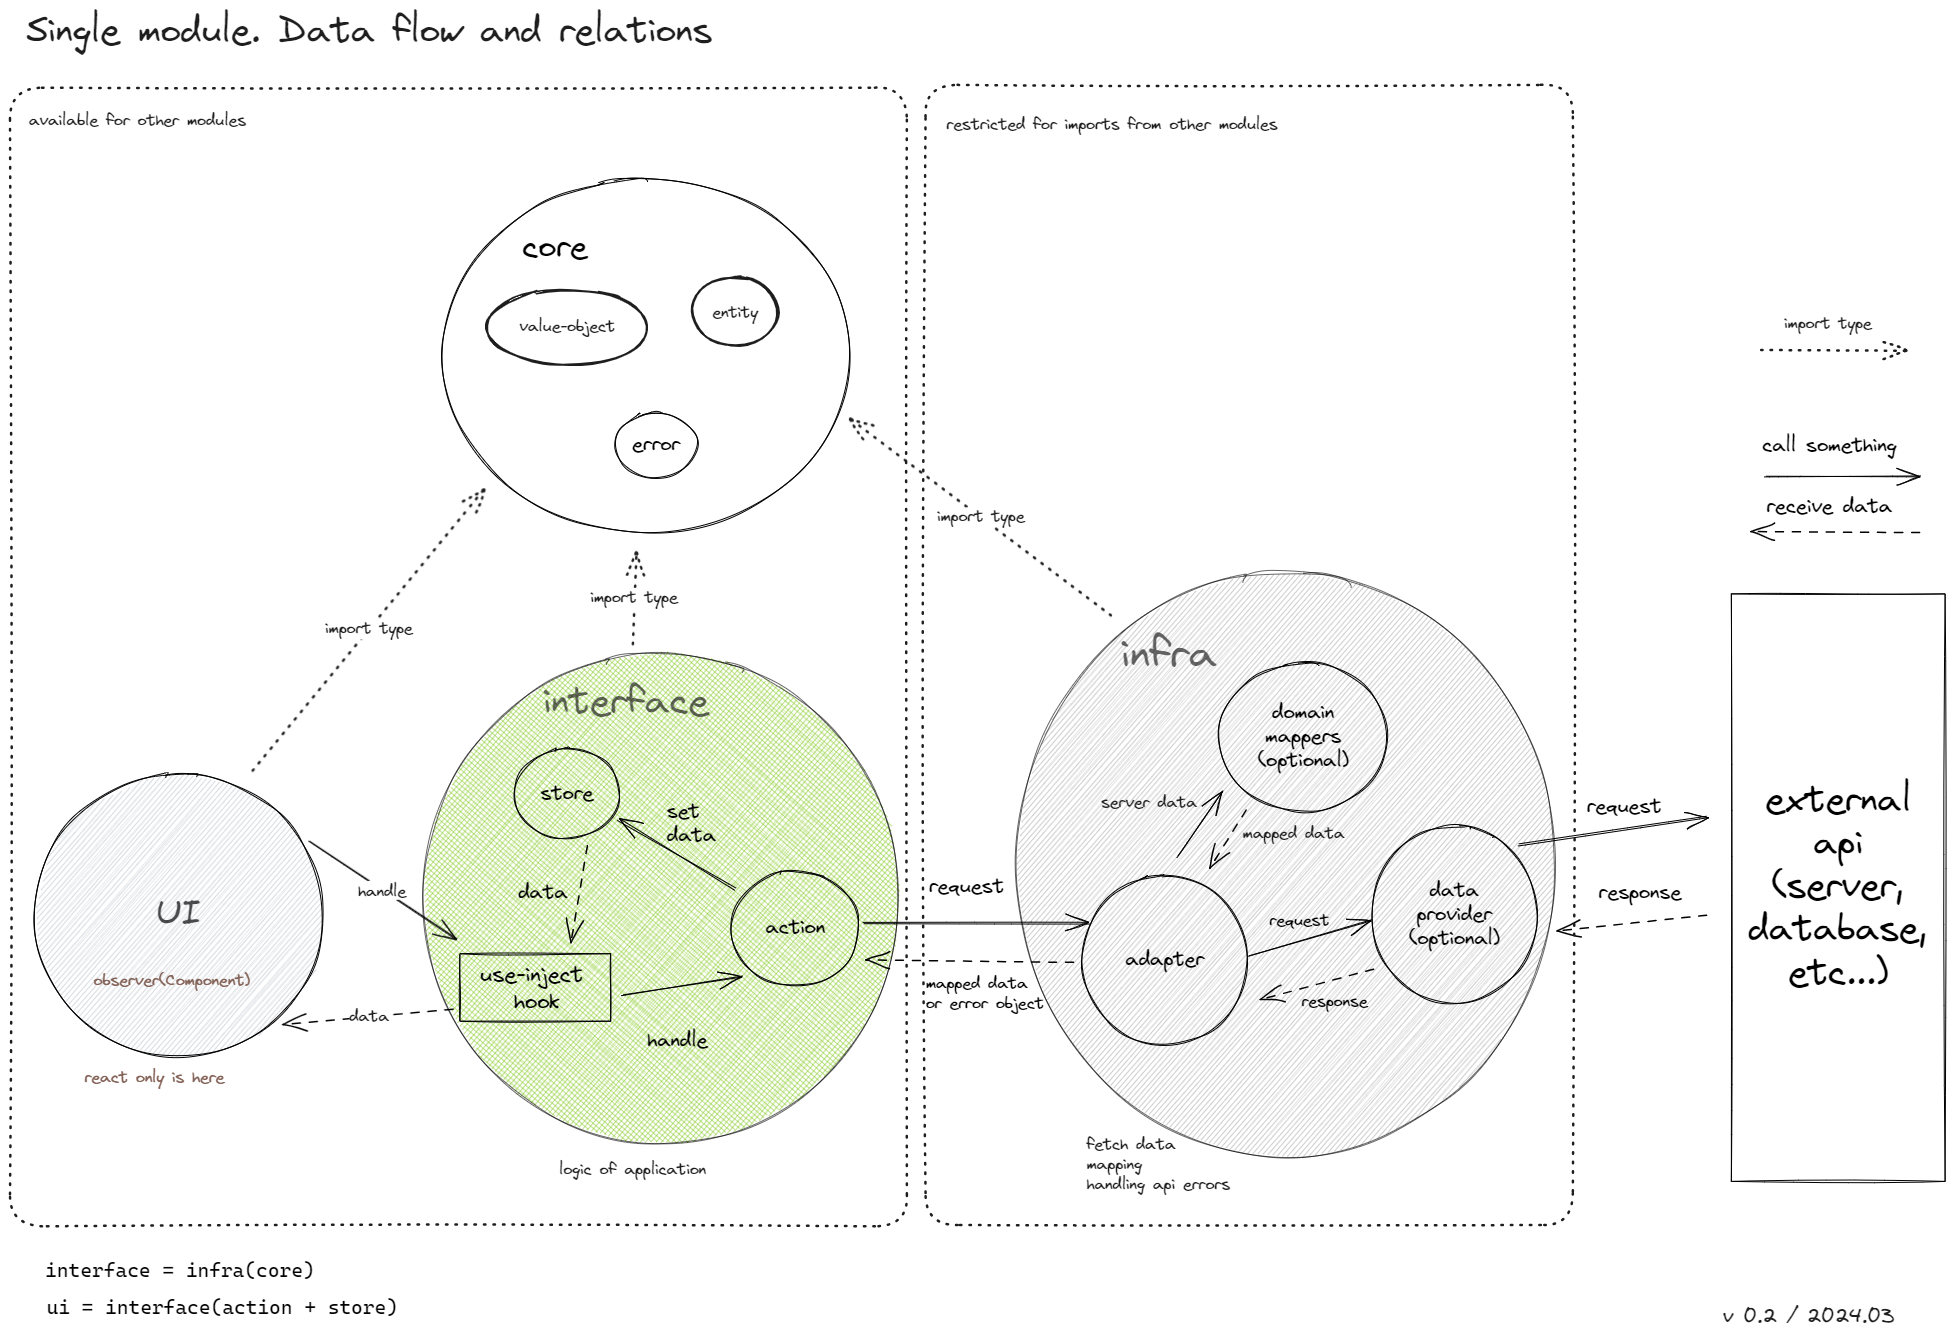
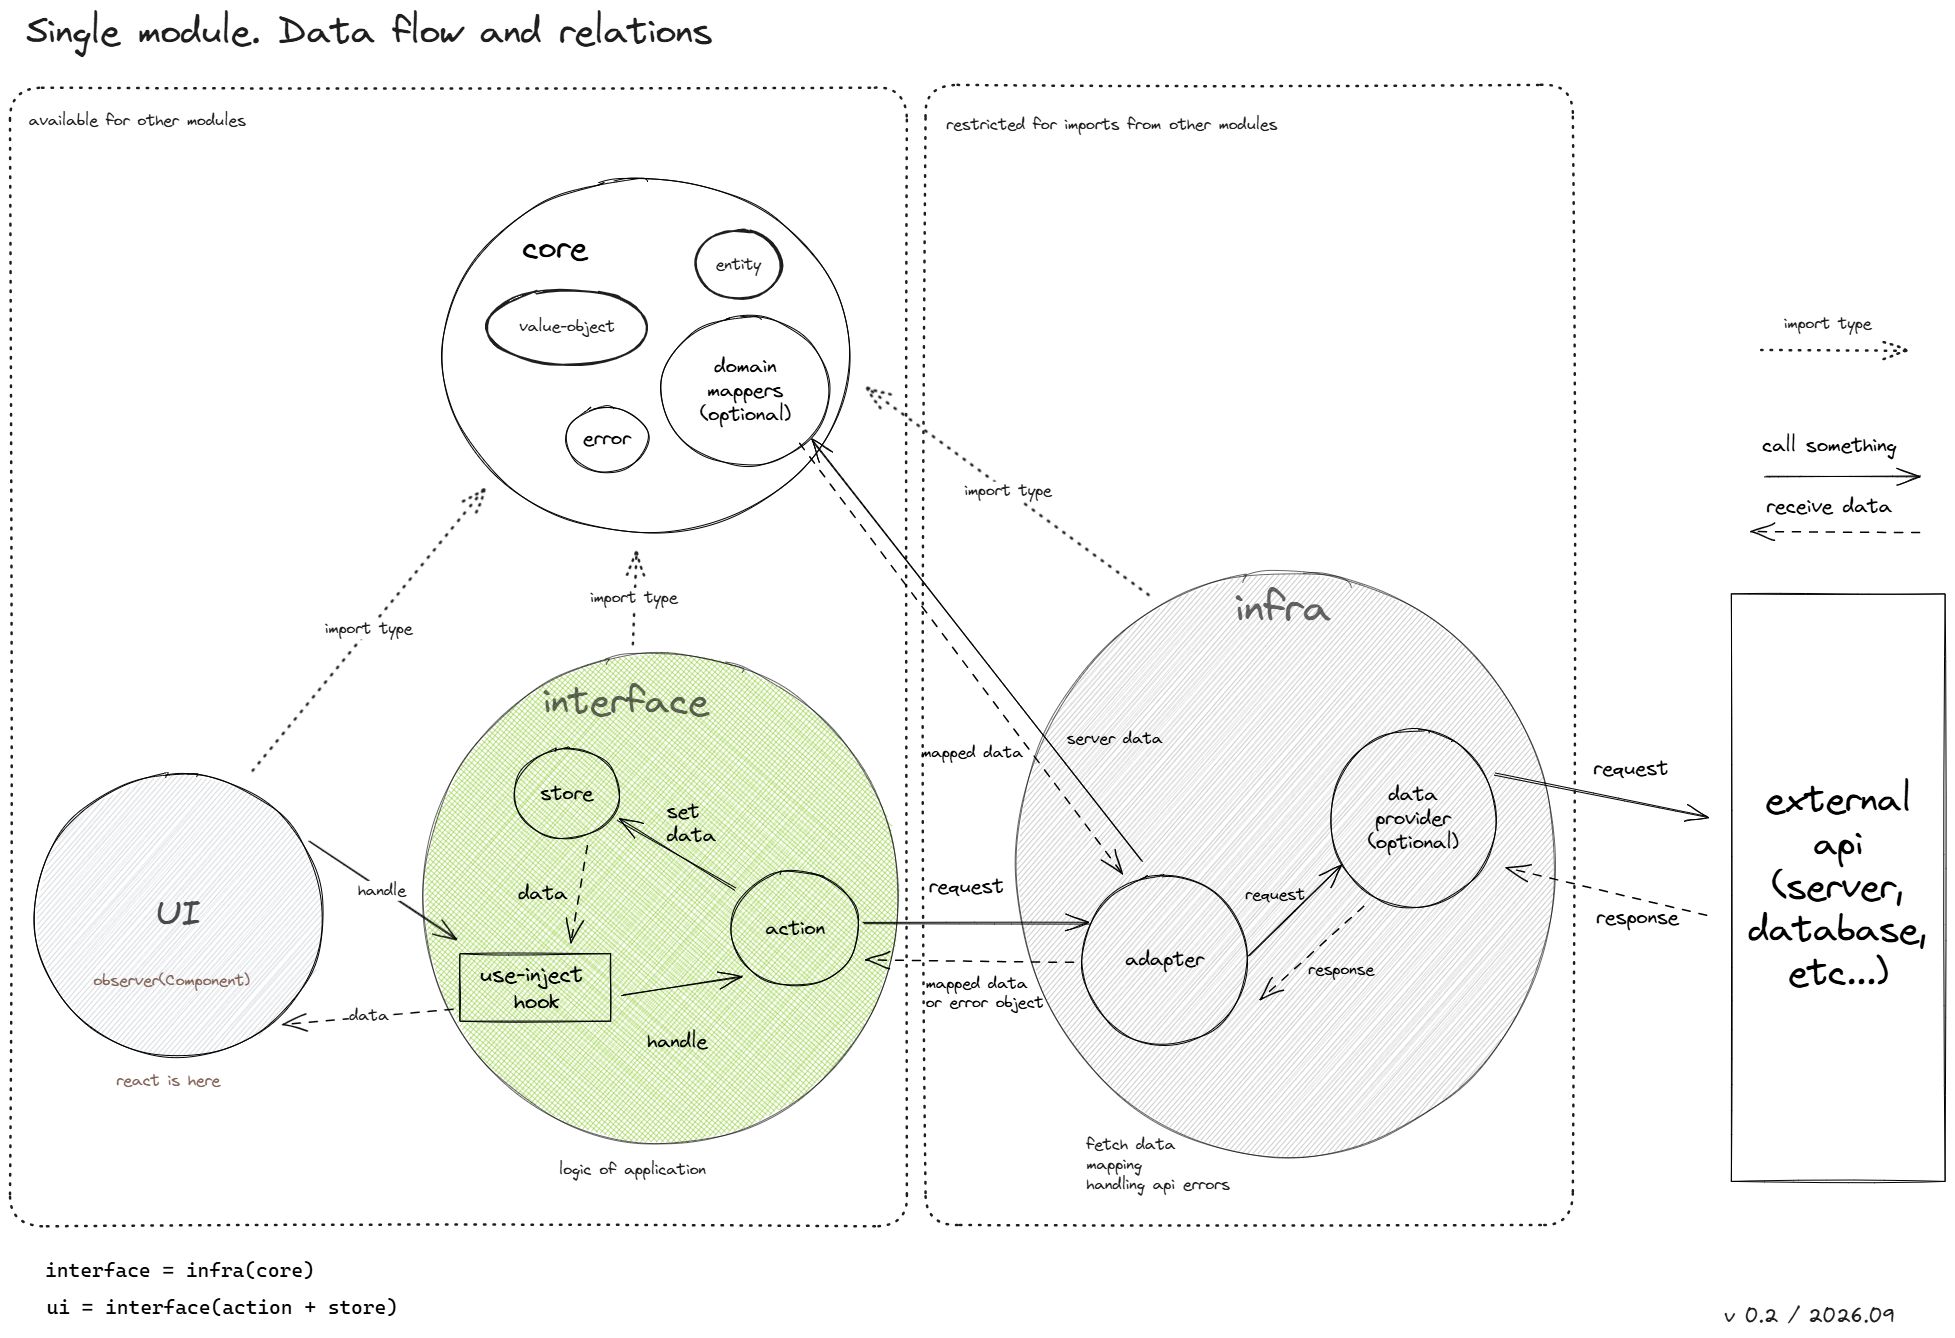
fix: update docs

diff --git a/README.md b/README.md
@@ -19,7 +19,7 @@ making direct calls to the server or database.
 
 Top level:
 
-- `Core`. It's entities, value-objects, errors, enums, and etc types
+- `Core`. It's entities, value-objects, errors, domain mappers, enums, and etc types
 - `UI`. This is just the user interface layer, which **only** handles components and their related functionality. It should not contain any business logic. If you need to include some logic, it should be encapsulated within actions.
 - `Interface`. This part of the application focuses on managing the logic and control of data structures through UI actions. It serves as the main point of interaction with other modules in the system.
 - `Infra`. This level is responsible for handling external communication with services such as databases, servers, and other modules. It acts as an interface between the module and the outside world. Other modules cannot access this level directly, and instead, they use services or actions to access the infrastructure.
